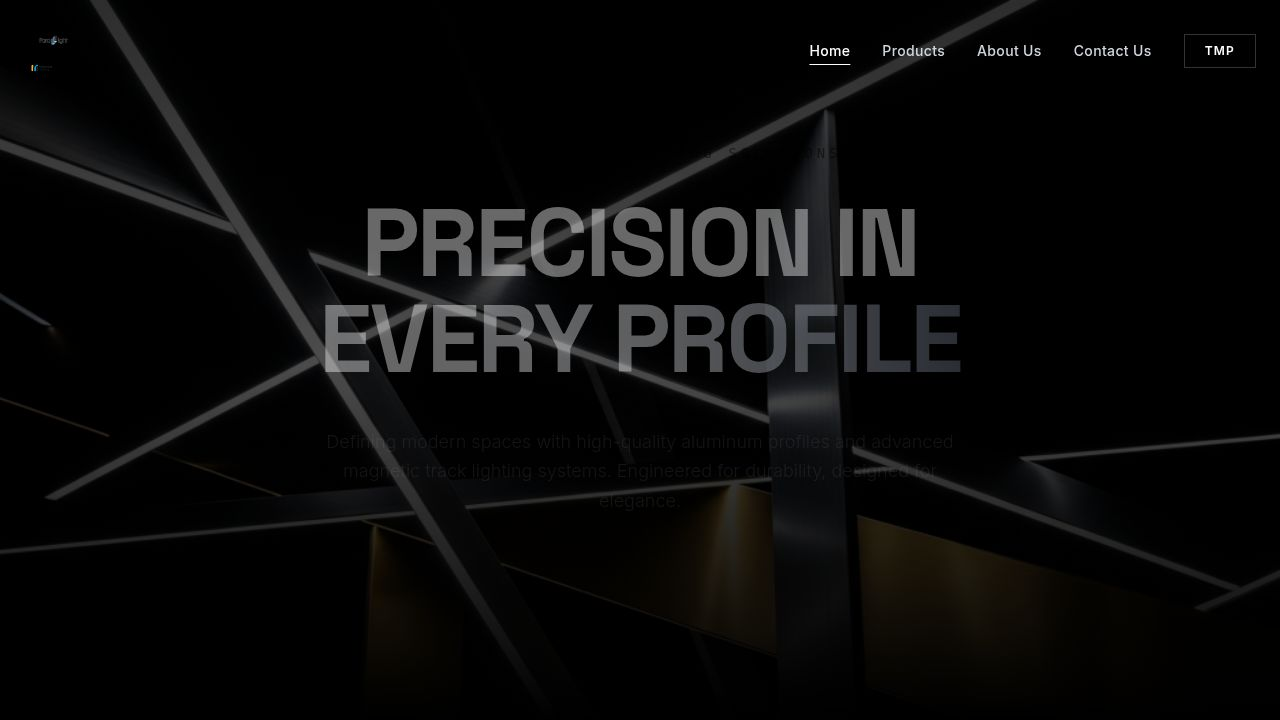
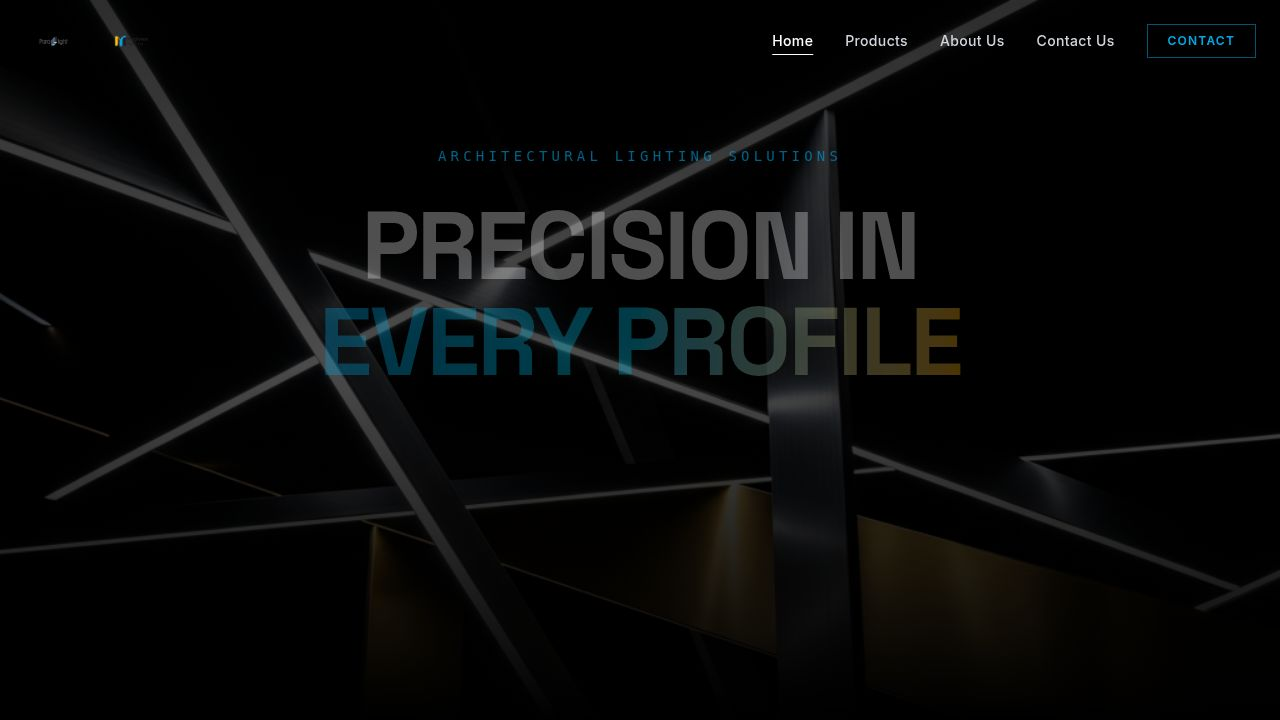
Update website theme to a more colorful and modern dark blue aesthetic
Replace instances of 'bg-black' with '#1a2332' or '#141c28' across multiple components and pages to implement a new dark blue theme. Update CSS variables in index.css to reflect the new color scheme. Adjust Navbar styling and logo display.

Replit-Commit-Author: Agent
Replit-Commit-Session-Id: 80277da4-a443-43ea-8a3b-401c11f614a2
Replit-Commit-Checkpoint-Type: full_checkpoint
Replit-Commit-Event-Id: 8404b17b-f51c-4f1e-b0c6-0f32bc695a0f
Replit-Commit-Screenshot-Url: https://storage.googleapis.com/screenshot-production-us-central1/d7454a2c-912c-46eb-af8e-019f96d76874/80277da4-a443-43ea-8a3b-401c11f614a2/3a0AEDi
Replit-Helium-Checkpoint-Created: true

diff --git a/client/src/pages/Admin.tsx b/client/src/pages/Admin.tsx
@@ -5,6 +5,8 @@ import Navbar from "@/components/layout/Navbar";
 import Footer from "@/components/layout/Footer";
 import { Plus, Trash2, LogOut, Package, ChevronRight, Upload, Settings, Edit2, X, Image as ImageIcon, FileText } from "lucide-react";
 
+const THEME_BG = "bg-[#1a2332]";
+
 interface Product {
   id: number;
   name: string;
@@ -206,7 +208,7 @@ export default function Admin() {
 
   if (!isAuthenticated) {
     return (
-      <div className="min-h-screen bg-black flex items-center justify-center p-6 font-sans">
+      <div className="min-h-screen bg-[#1a2332] flex items-center justify-center p-6 font-sans">
         <motion.div 
           initial={{ opacity: 0, y: 20 }}
           animate={{ opacity: 1, y: 0 }}
@@ -239,7 +241,7 @@ export default function Admin() {
             <button 
               type="submit"
               data-testid="button-login"
-              className="w-full py-4 bg-white text-black font-bold uppercase tracking-[0.3em] text-[10px] hover:bg-gray-200 transition-colors"
+              className="w-full py-4 bg-[#00A8E8] text-black font-bold uppercase tracking-[0.3em] text-[10px] hover:bg-[#00C4E8] transition-colors"
             >
               Enter Dashboard
             </button>
@@ -250,7 +252,7 @@ export default function Admin() {
   }
 
   return (
-    <div className="min-h-screen bg-black text-white selection:bg-white selection:text-black font-sans">
+    <div className="min-h-screen bg-[#1a2332] text-white selection:bg-[#00A8E8] selection:text-black font-sans">
       <Navbar />
       <main className="pt-32 pb-20">
         <div className="container mx-auto px-6">

diff --git a/client/src/components/layout/Navbar.tsx b/client/src/components/layout/Navbar.tsx
@@ -30,17 +30,17 @@ export default function Navbar() {
       className={cn(
         "fixed top-0 w-full z-50 transition-all duration-300 border-b border-transparent",
         scrolled
-          ? "bg-black/80 backdrop-blur-md border-white/10 py-4"
+          ? "bg-[#1a2332]/90 backdrop-blur-md border-white/10 py-4"
           : "bg-transparent py-6",
       )}
     >
       <div className="container mx-auto px-6 flex justify-between items-center">
         <Link
           href="/"
-          className="flex flex-col items-start hover:opacity-80 transition-opacity"
+          className="flex items-center gap-4 hover:opacity-80 transition-opacity"
         >
           <img src={paralightLogo} alt="Paralight" className="h-8 object-contain" />
-          <img src={maglinearLogo} alt="Maglinear Lighting" className="h-5 object-contain mt-0.5" />
+          <img src={maglinearLogo} alt="Maglinear Lighting" className="h-8 object-contain" />
         </Link>
 
         {/* Desktop Nav */}
@@ -75,7 +75,7 @@ export default function Navbar() {
 
       {/* Mobile Nav */}
       {isOpen && (
-        <div className="md:hidden absolute top-full left-0 w-full bg-black/95 backdrop-blur-xl border-b border-white/10 py-8 px-6 flex flex-col space-y-4">
+        <div className="md:hidden absolute top-full left-0 w-full bg-[#1a2332]/95 backdrop-blur-xl border-b border-white/10 py-8 px-6 flex flex-col space-y-4">
           {navLinks.map((link) => (
             <Link
               key={link.name}

diff --git a/client/src/pages/ProductDetail.tsx b/client/src/pages/ProductDetail.tsx
@@ -64,7 +64,7 @@ export default function ProductDetail() {
 
   if (isLoading) {
     return (
-      <div className="min-h-screen bg-black text-white flex items-center justify-center">
+      <div className="min-h-screen bg-[#1a2332] text-white flex items-center justify-center">
         <Loader2 className="w-8 h-8 animate-spin text-white/50" />
       </div>
     );
@@ -72,7 +72,7 @@ export default function ProductDetail() {
 
   if (!product) {
     return (
-      <div className="min-h-screen bg-black text-white selection:bg-white selection:text-black font-sans">
+      <div className="min-h-screen bg-[#1a2332] text-white selection:bg-[#00A8E8] selection:text-black font-sans">
         <Navbar />
         <main className="pt-32 pb-20">
           <div className="container mx-auto px-6 text-center py-40">
@@ -90,7 +90,7 @@ export default function ProductDetail() {
   }
 
   return (
-    <div className="min-h-screen bg-black text-white selection:bg-white selection:text-black font-sans">
+    <div className="min-h-screen bg-[#1a2332] text-white selection:bg-[#00A8E8] selection:text-black font-sans">
       <Navbar />
       <main className="pt-32 pb-20">
         <div className="container mx-auto px-6">

diff --git a/client/src/index.css b/client/src/index.css
@@ -47,14 +47,14 @@
   --brand-cyan: 195 100% 45%; /* #00A8E8 - Cyan/Blue from Maglinear logo */
   --brand-blue: 200 100% 40%; /* #0080CC - Deeper blue accent */
   
-  /* Dark, Architectural Theme */
-  --background: 0 0% 0%; /* Pure black */
+  /* Dark Blue Professional Theme */
+  --background: 215 25% 12%; /* Dark blue-gray */
   --foreground: 0 0% 98%;
 
-  --card: 0 0% 5%;
+  --card: 215 25% 15%;
   --card-foreground: 0 0% 98%;
 
-  --popover: 0 0% 5%;
+  --popover: 215 25% 15%;
   --popover-foreground: 0 0% 98%;
 
   --primary: 195 100% 45%; /* Cyan blue as primary */
@@ -63,8 +63,8 @@
   --secondary: 42 89% 50%; /* Gold as secondary */
   --secondary-foreground: 0 0% 0%;
 
-  --muted: 0 0% 12%;
-  --muted-foreground: 0 0% 60%;
+  --muted: 215 20% 18%;
+  --muted-foreground: 210 10% 60%;
 
   --accent: 195 100% 45%; /* Cyan accent */
   --accent-foreground: 0 0% 0%;
@@ -72,8 +72,8 @@
   --destructive: 0 62.8% 30.6%;
   --destructive-foreground: 0 0% 98%;
 
-  --border: 0 0% 15%;
-  --input: 0 0% 12%;
+  --border: 215 20% 20%;
+  --input: 215 20% 18%;
   --ring: 195 100% 45%;
 
   --radius: 0rem; /* Sharp edges for architectural feel */

diff --git a/client/src/components/home/Hero.tsx b/client/src/components/home/Hero.tsx
@@ -3,7 +3,7 @@ import heroBg from "@assets/generated_images/abstract_architectural_lighting_des
 
 export default function Hero() {
   return (
-    <section className="relative h-screen flex items-center justify-center overflow-hidden bg-black">
+    <section className="relative h-screen flex items-center justify-center overflow-hidden bg-[#1a2332]">
       {/* Background Image */}
       <div className="absolute inset-0 z-0">
         <div className="absolute inset-0 bg-gradient-to-b from-black/70 via-black/50 to-black z-10" />

diff --git a/client/src/components/home/GlobalNetwork.tsx b/client/src/components/home/GlobalNetwork.tsx
@@ -4,7 +4,7 @@ import { Globe, TrendingUp, Users } from "lucide-react";
 
 export default function GlobalNetwork() {
   return (
-    <section id="global" className="py-32 bg-black relative overflow-hidden">
+    <section id="global" className="py-32 bg-[#1a2332] relative overflow-hidden">
       <div className="absolute inset-0 opacity-20">
         <img src={mapImg} alt="Global Map" className="w-full h-full object-cover" />
         <div className="absolute inset-0 bg-gradient-to-t from-black via-black/50 to-transparent" />

diff --git a/client/src/pages/Products.tsx b/client/src/pages/Products.tsx
@@ -52,7 +52,7 @@ export default function Products() {
   const filteredProducts = products.filter(p => p.brand === activeBrand && (activeCategory === "All" || p.category === activeCategory));
 
   return (
-    <div className="min-h-screen bg-black text-white selection:bg-white selection:text-black font-sans">
+    <div className="min-h-screen bg-[#1a2332] text-white selection:bg-[#00A8E8] selection:text-black font-sans">
       <Navbar />
       <main className="pt-32 pb-20">
         <div className="container mx-auto px-6">

diff --git a/client/src/components/home/Exhibition.tsx b/client/src/components/home/Exhibition.tsx
@@ -9,7 +9,7 @@ export default function Exhibition() {
   ];
 
   return (
-    <section id="exhibitions" className="py-32 bg-zinc-950 border-t border-white/5">
+    <section id="exhibitions" className="py-32 bg-[#141c28] border-t border-white/5">
       <div className="container mx-auto px-6">
         <div className="text-center mb-16">
           <h2 className="text-4xl md:text-5xl font-display font-bold text-white mb-6">EXHIBITIONS</h2>

diff --git a/client/src/components/home/BrandSplit.tsx b/client/src/components/home/BrandSplit.tsx
@@ -5,7 +5,7 @@ import { ArrowRight } from "lucide-react";
 
 export default function BrandSplit() {
   return (
-    <section id="brands" className="py-32 bg-black">
+    <section id="brands" className="py-32 bg-[#1a2332]">
       <div className="container mx-auto px-6">
         <div className="text-center mb-20">
           <h2 className="text-4xl md:text-5xl font-display font-bold text-white mb-6">OUR BRANDS</h2>

diff --git a/client/src/components/layout/Footer.tsx b/client/src/components/layout/Footer.tsx
@@ -14,7 +14,7 @@ export default function Footer() {
   ];
 
   return (
-    <footer className="bg-black border-t border-white/10 py-20">
+    <footer className="bg-[#141c28] border-t border-white/10 py-20">
       <div className="container mx-auto px-6">
         <div className="grid grid-cols-1 md:grid-cols-4 gap-12 mb-16">
           <div className="col-span-1 md:col-span-1">

diff --git a/client/src/pages/Home.tsx b/client/src/pages/Home.tsx
@@ -7,7 +7,7 @@ import Exhibition from "@/components/home/Exhibition";
 
 export default function Home() {
   return (
-    <div className="min-h-screen bg-black text-white selection:bg-white selection:text-black">
+    <div className="min-h-screen bg-[#1a2332] text-white selection:bg-[#00A8E8] selection:text-black">
       <Navbar />
       <main>
         <Hero />

diff --git a/client/src/pages/Contact.tsx b/client/src/pages/Contact.tsx
@@ -36,7 +36,7 @@ export default function Contact() {
   ];
 
   return (
-    <div className="min-h-screen bg-black text-white selection:bg-white selection:text-black">
+    <div className="min-h-screen bg-[#1a2332] text-white selection:bg-[#00A8E8] selection:text-black">
       <Navbar />
 
       <main className="pt-32 pb-20">
